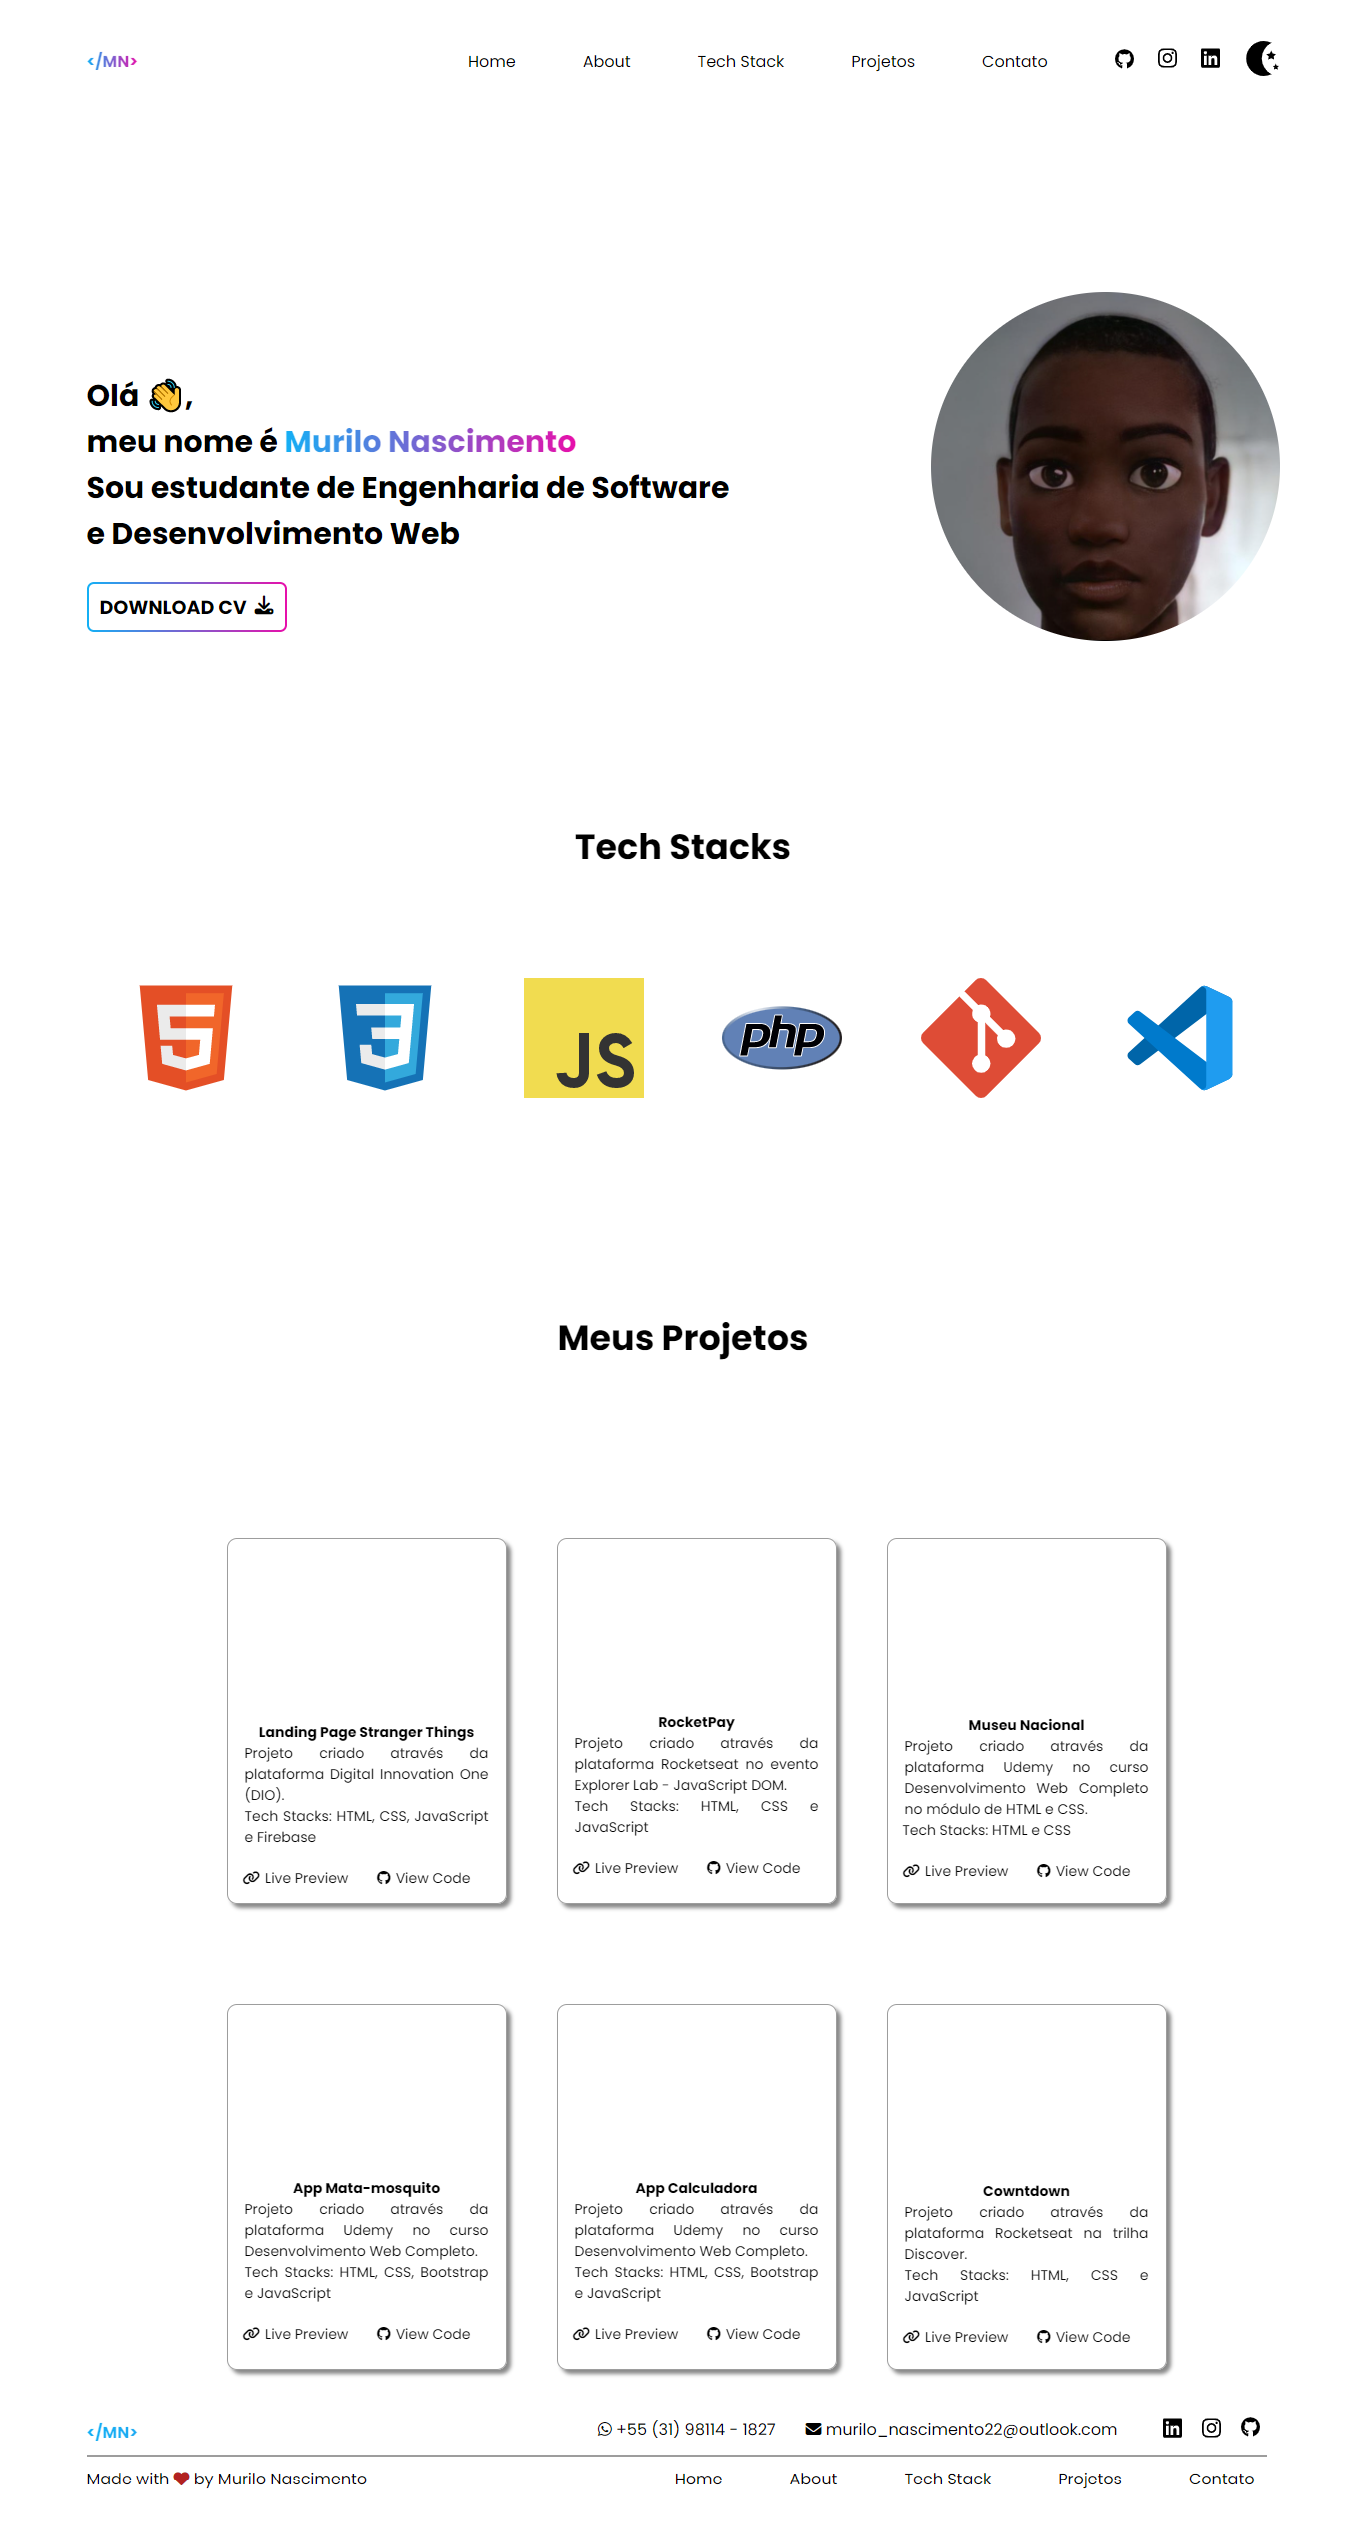
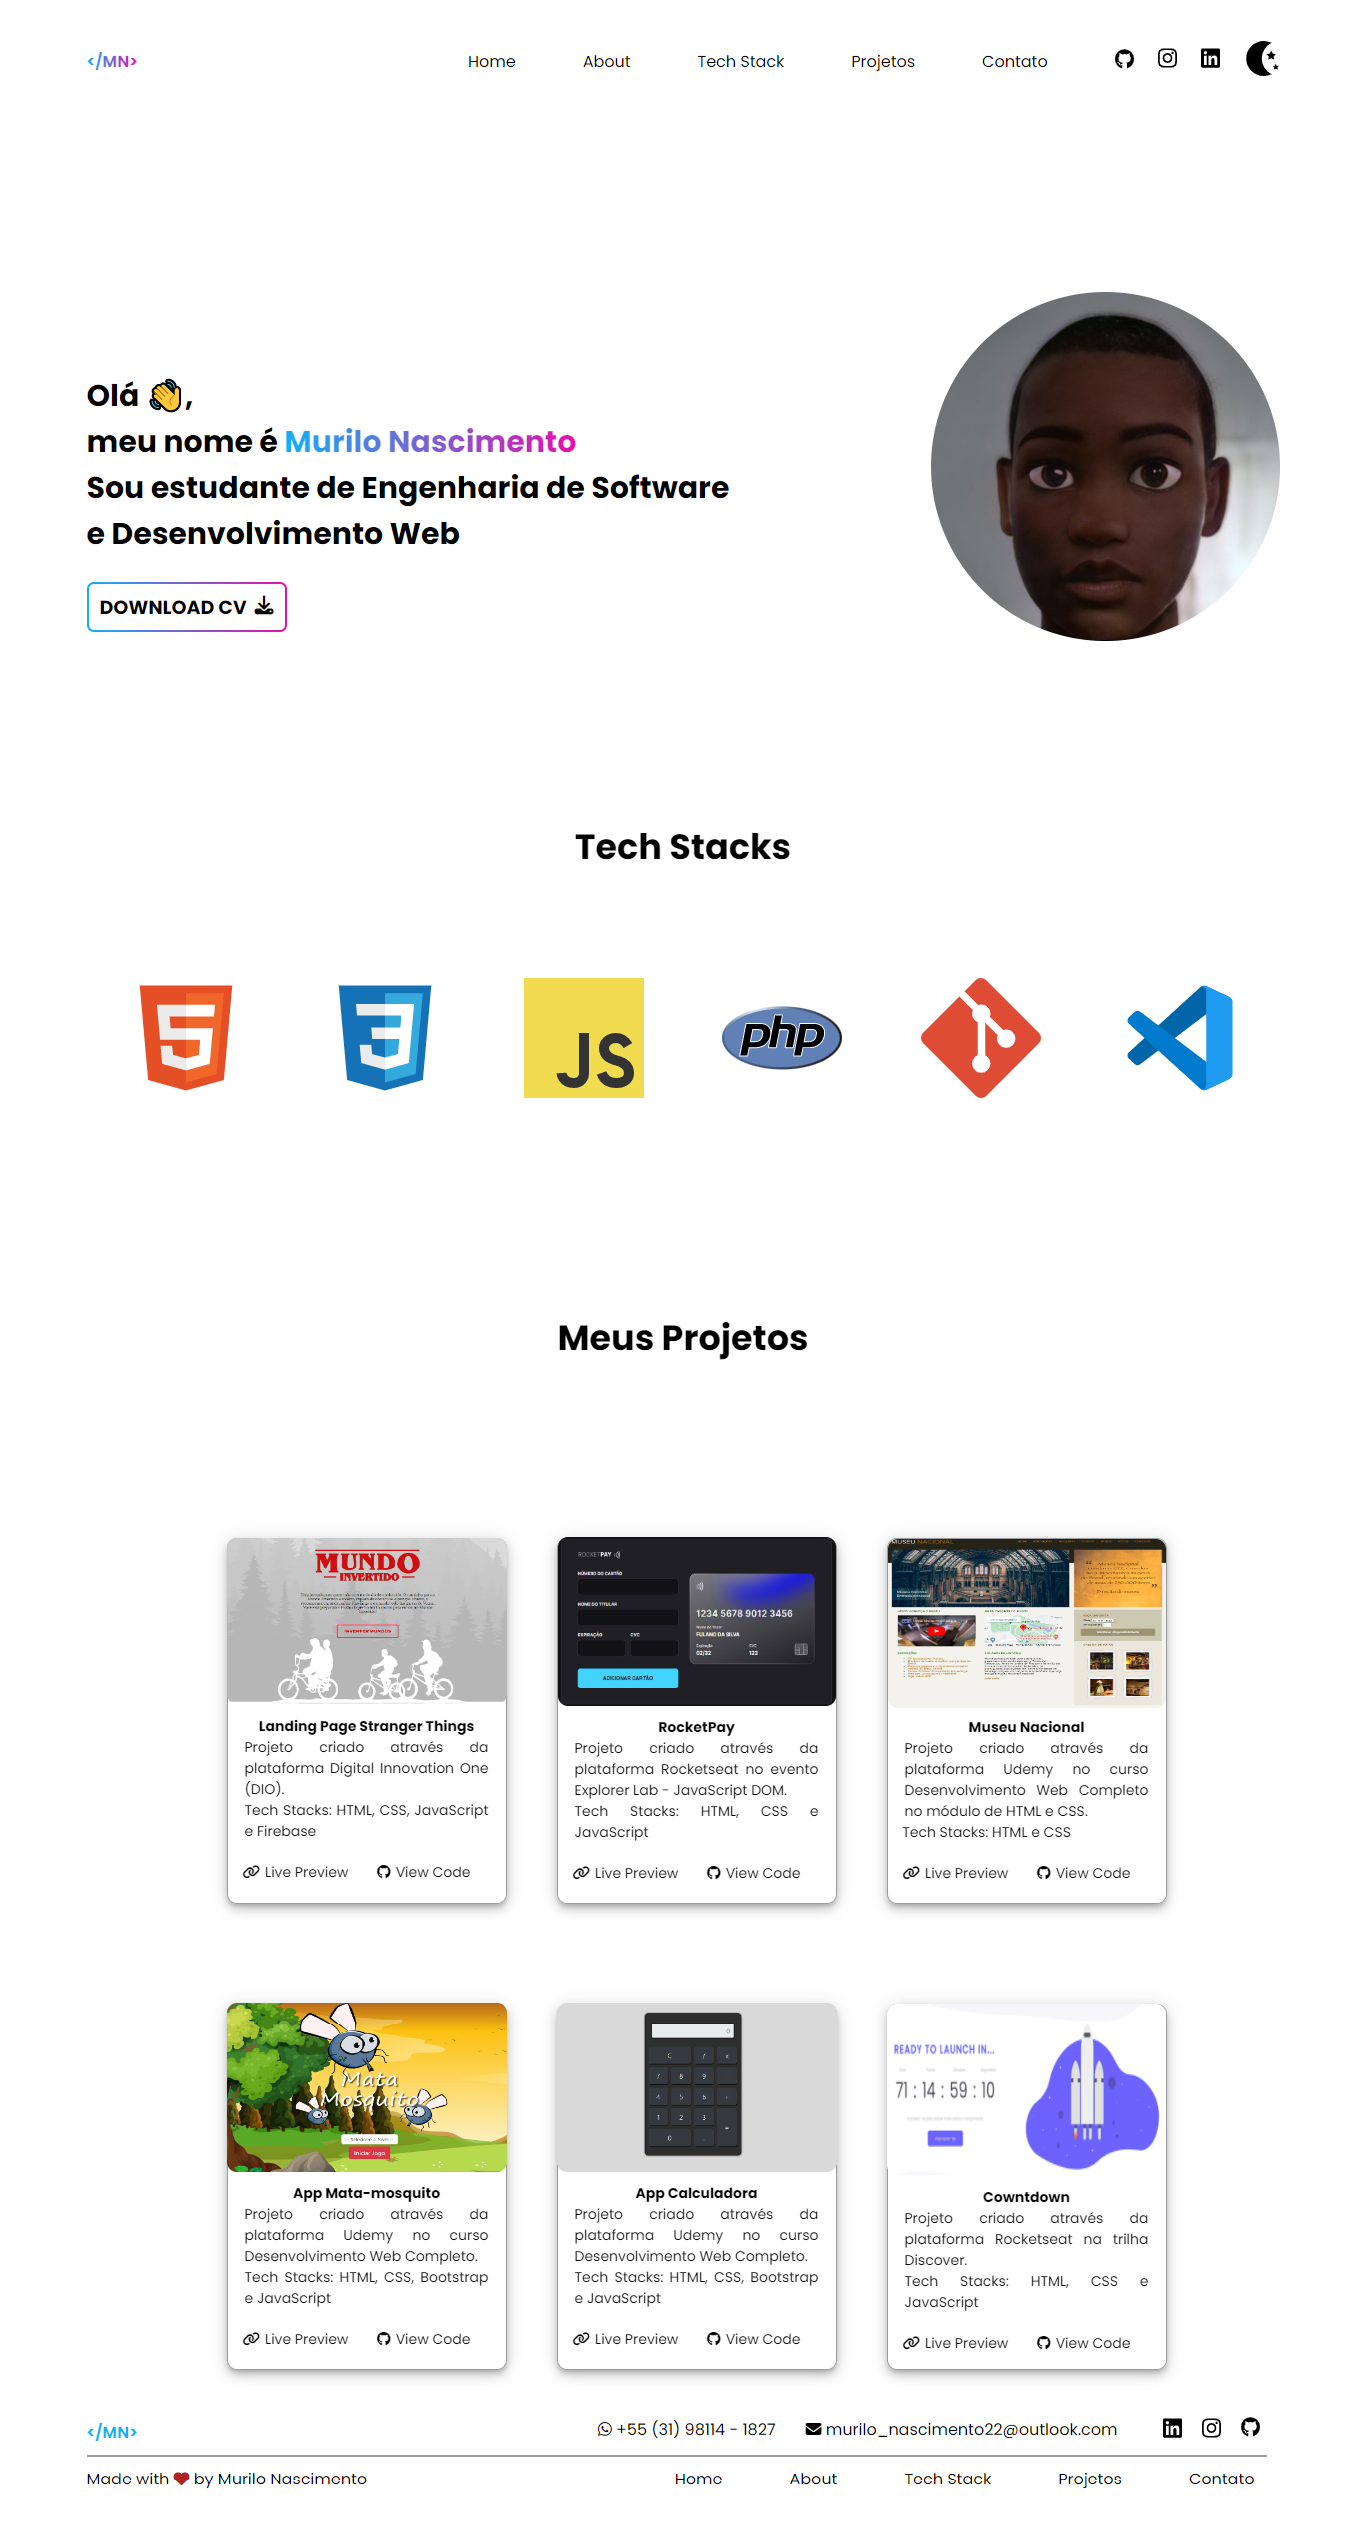
Inclusão do projeto finalizado

diff --git a/assets/css/style.css b/assets/css/style.css
@@ -26,6 +26,9 @@ body {
     --svg-color: invert(0%) sepia(92%) saturate(31%) hue-rotate(295deg) brightness(97%) contrast(101%);
     --gradient: linear-gradient(to right, rgba(19, 176, 245, 1), rgba(231, 15, 170, 1));
     --link-cv-gradient: linear-gradient(white, white) padding-box, var(--gradient) border-box;
+    --box-shadow: 0px 6px 10px 0px hsla(0, 0%, 0%, 0.14),
+        0px 1px 18px 0px hsla(0, 0%, 0%, 0.12),
+        0px 3px 5px -1px hsla(0, 0%, 0%, 0.2);
 }
 
 .dark-theme {
@@ -37,6 +40,9 @@ body {
     --svg-color: invert(100%) sepia(100%) saturate(0%) hue-rotate(108deg) brightness(104%) contrast(104%);
     --gradient: linear-gradient(to right, rgb(149 114 252), rgb(67 231 173), rgb(226 212 92));
     --link-cv-gradient: linear-gradient(black, black) padding-box, var(--gradient) border-box;
+    --box-shadow: 0px 24px 38px 3px hsla(0, 0%, 0%, 0.14),
+        0px 9px 46px 8px hsla(0, 0%, 0%, 0.12),
+        0px 11px 15px -7px hsla(0, 0%, 0%, 0.2);
 }
 
 
@@ -61,10 +67,10 @@ footer {
     margin-top: 49px;
 }
 
-dialog{
+dialog {
     width: 500px;
     height: 500px;
-    background-color: var(--divider-color);
+    background-color: #D9D9D9;
     margin: auto;
     border: none;
     border-radius: 10px;
@@ -181,7 +187,6 @@ header button img {
     float: right;
     width: 349px;
     height: 349px;
-    border: 5px solid var(--gradient);
     border-radius: 50%;
     margin-top: -340px;
 }
@@ -208,19 +213,35 @@ header button img {
 #stacks div img {
     margin: auto;
 }
-#stacks button{
+
+#stacks button {
     width: 100px;
     height: 40px;
-    background-color: burlywood;
     border: 1px solid;
     border-radius: 7px;
     font-family: "Poppins", sans-serif;
     font-size: 18px;
     font-weight: bold;
+    color: var(--font-color);
     text-transform: uppercase;
     margin-left: 15px;
+    background: var(--link-cv-gradient);
+    border-width: 2px;
+    border-style: solid;
+    border-color: transparent;
+    border-radius: 7px;
 }
-#stacks dialog p{
+#stacks button:hover{
+    background: var(--hover-background-color);
+    border-width: 2px;
+    border-style: solid;
+    border-color: transparent;
+    border-radius: 7px;
+    color: var(--hover-font-color);
+    transition: .5s;
+}
+
+#stacks dialog p {
     margin: 10px 15px 10px 15px;
     text-align: justify;
 }
@@ -261,13 +282,14 @@ header button img {
     display: flex;
     align-items: center;
     margin-right: 50px;
-    box-shadow: 4px 4px 4px #888;
+    box-shadow: var(--box-shadow);
 }
 
 #box1 {
     margin-right: 130px;
 }
-#box1 div{
+
+#box1 div {
     height: 200px;
     margin-bottom: -115px;
     border: none;
@@ -279,15 +301,18 @@ header button img {
     margin-top: -110px;
     border-radius: 10px;
 }
-#box1 h4{
+
+#box1 h4 {
     margin-top: -55px;
 }
+
 #box1 p {
     text-align: justify;
     padding-right: 18px;
     padding-left: 18px;
 }
-#box2 div{
+
+#box2 div {
     height: 200px;
     margin-bottom: -130px;
     border: none;
@@ -299,15 +324,18 @@ header button img {
     margin-top: -130px;
     border-radius: 10px;
 }
-#box2 h4{
+
+#box2 h4 {
     margin-top: -30px;
 }
+
 #box2 p {
     text-align: justify;
     padding-right: 18px;
     padding-left: 18px;
 }
-#box3 div{
+
+#box3 div {
     height: 200px;
     margin-bottom: -250px;
     border: none;
@@ -318,9 +346,11 @@ header button img {
     margin-top: -250px;
     border-radius: 10px;
 }
-#box3 h4{
+
+#box3 h4 {
     margin-top: -50px;
 }
+
 #box3 p {
     text-align: justify;
     padding-right: 18px;
@@ -333,26 +363,30 @@ header button img {
     align-items: center;
     margin-right: 50px;
     margin-top: 100px;
-    box-shadow: 4px 4px 4px #888;
+    box-shadow: var(--box-shadow);
 }
 
 #box4 {
     margin-right: 130px;
 }
-#box4 div{
+
+#box4 div {
     height: 200px;
     margin-bottom: -115px;
     border: none;
 }
+
 #box4 img {
     width: 279px;
-    height: 169px;
+    height: 172px;
     margin-top: -110px;
     border-radius: 10px;
 }
-#box4 h4{
+
+#box4 h4 {
     margin-top: -50px;
 }
+
 #box4 p {
     text-align: justify;
     padding-right: 18px;
@@ -365,28 +399,38 @@ header button img {
     margin-top: -130px;
     border-radius: 10px;
 }
-#box5 div{
+
+#box5 div {
     height: 200px;
     margin-bottom: -130px;
     border: none;
 }
-#box5 h4{
+
+#box5 h4 {
     margin-top: -30px;
 }
+
 #box5 p {
     text-align: justify;
     padding-right: 18px;
     padding-left: 18px;
 }
-#box6 div{
+
+#box6 div {
     height: 200px;
     margin-bottom: -130px;
     border: none;
 }
+
 #box6 img {
-    margin-top: -110px;
+    width: 280px;
+    height: 170px;
+    margin-top: -130px;
     border-radius: 10px;
-    border: 1px solid salmon;
+}
+
+#box6 h4 {
+    margin-top: -30px;
 }
 
 #box6 p {
@@ -447,14 +491,15 @@ footer>p {
 }
 
 /*ANIMAÇÃO*/
-[data-anime]{
+[data-anime] {
     opacity: 0;
     transition: .7s;
 }
+
 /* [data-anime="left"]{
     transform: translate3d(-50px, 0, 0);
 } */
-[data-anime].animate{
+[data-anime].animate {
     opacity: 1;
     transform: translate3d(0px, 0px, 0px);
 }

diff --git a/assets/js/script.js b/assets/js/script.js
@@ -73,18 +73,18 @@ function closeModal() {
 const target = document.querySelectorAll("[data-anime]");
 const animationClass = "animate";
 
-function animationScroll(){
+function animationScroll() {
     const windowTop = window.pageYOffset + ((window.innerHeight * 3 / 4));
     target.forEach((element) => {
-        if((windowTop) > element.offsetTop){
+        if ((windowTop) > element.offsetTop) {
             element.classList.add(animationClass);
-        }else {
+        } else {
             element.classList.remove(animationClass);
         }
     });
 }
 animationScroll();
-if(target.length){
+if (target.length) {
     window.addEventListener("scroll", () => {
         animationScroll();
     });

diff --git a/index.html b/index.html
@@ -207,6 +207,7 @@
                     </div>
                 </div>
                 <div id="box6">
+                    <img src="assets/img/mata-mosquito.JPG" alt="Foto do projeto App Mata-mosquito">
                     <div>
                         <h4>App Mata-mosquito</h4>
                         <p>Projeto criado através da plataforma Udemy no curso Desenvolvimento Web Completo.
